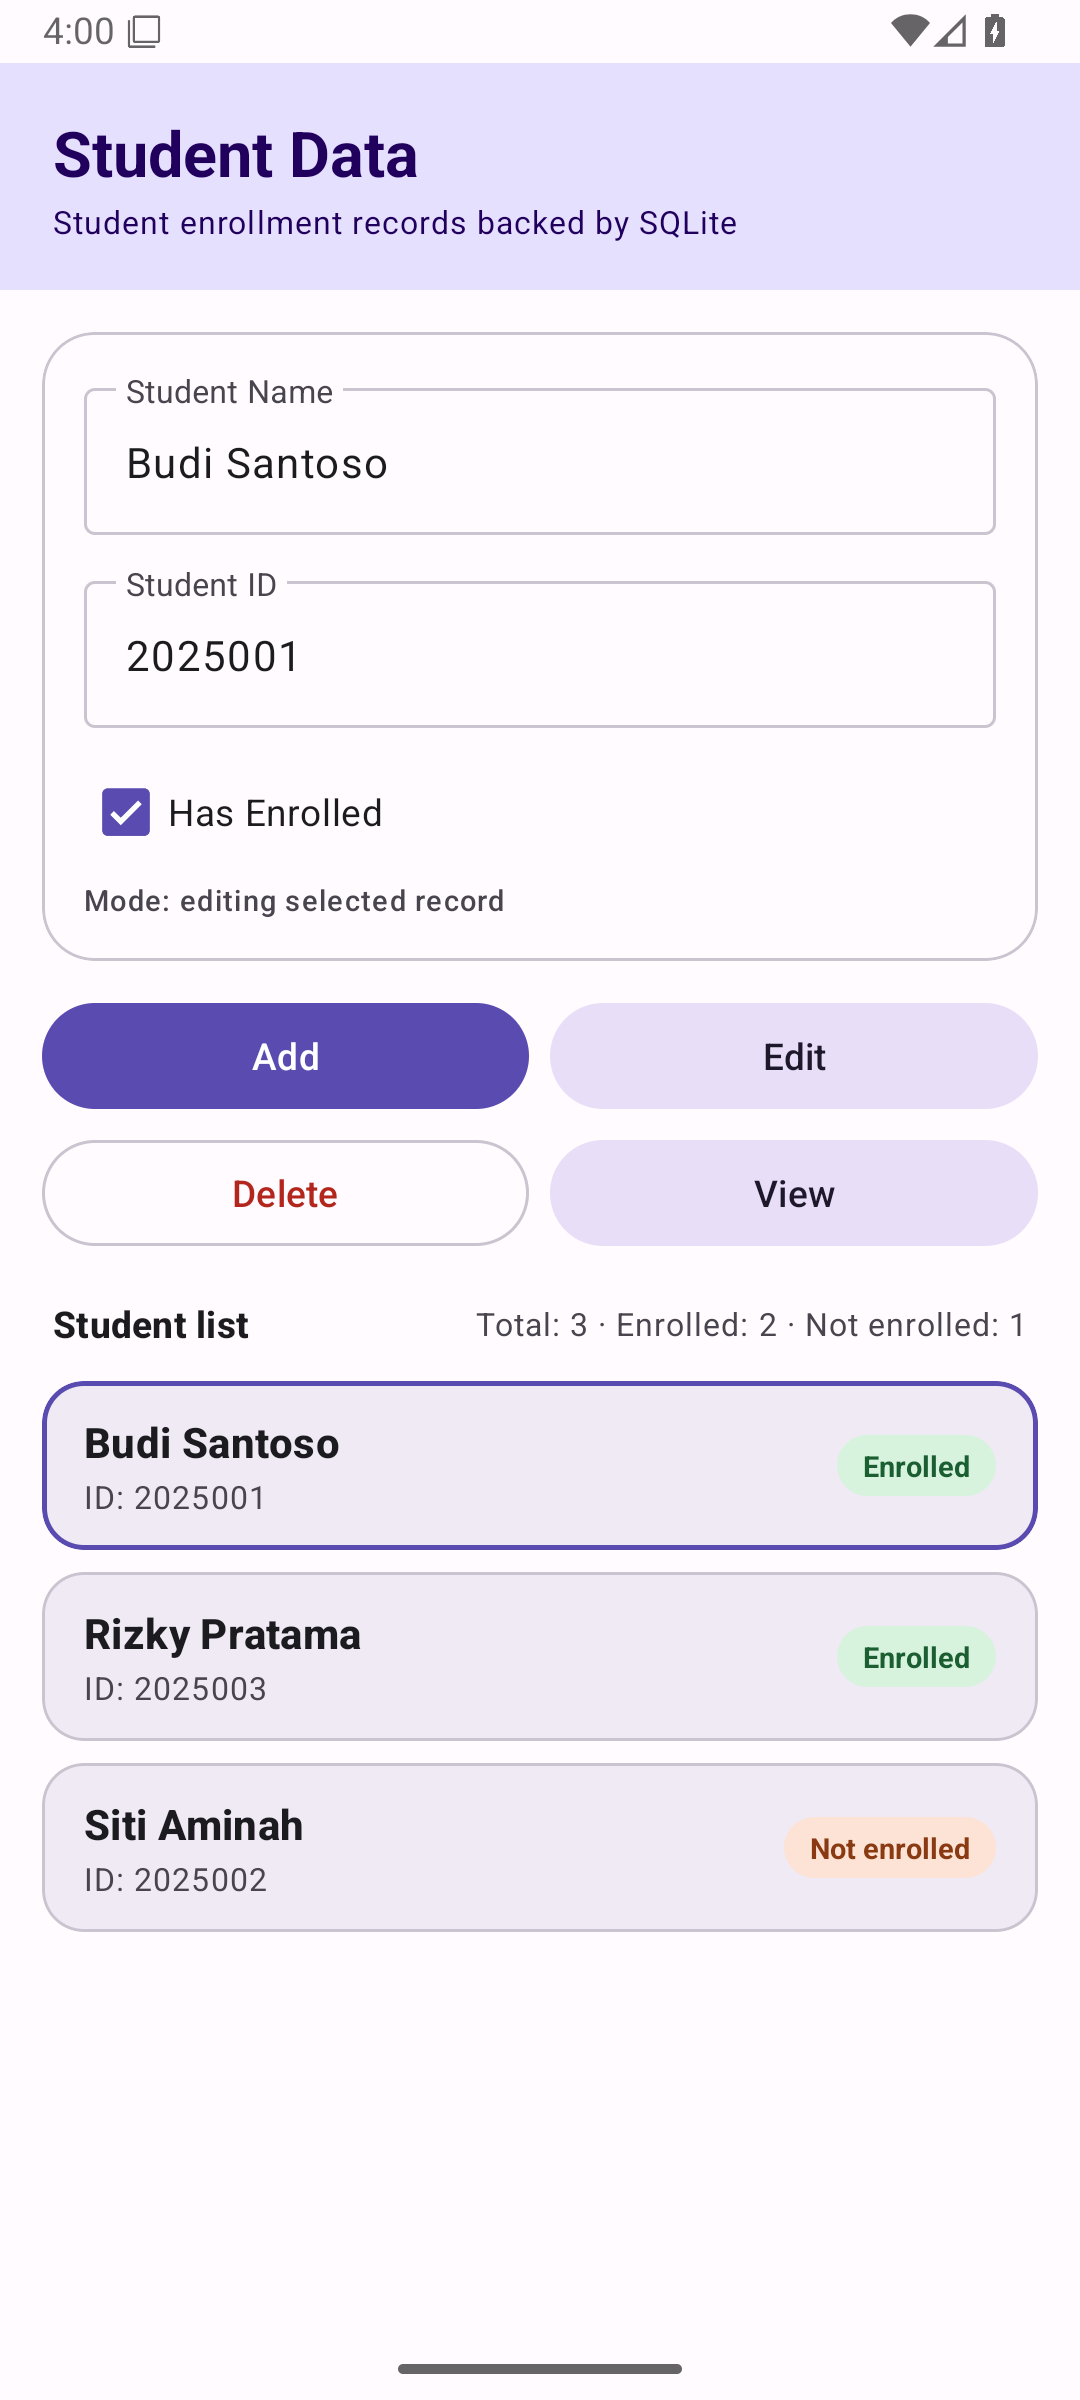
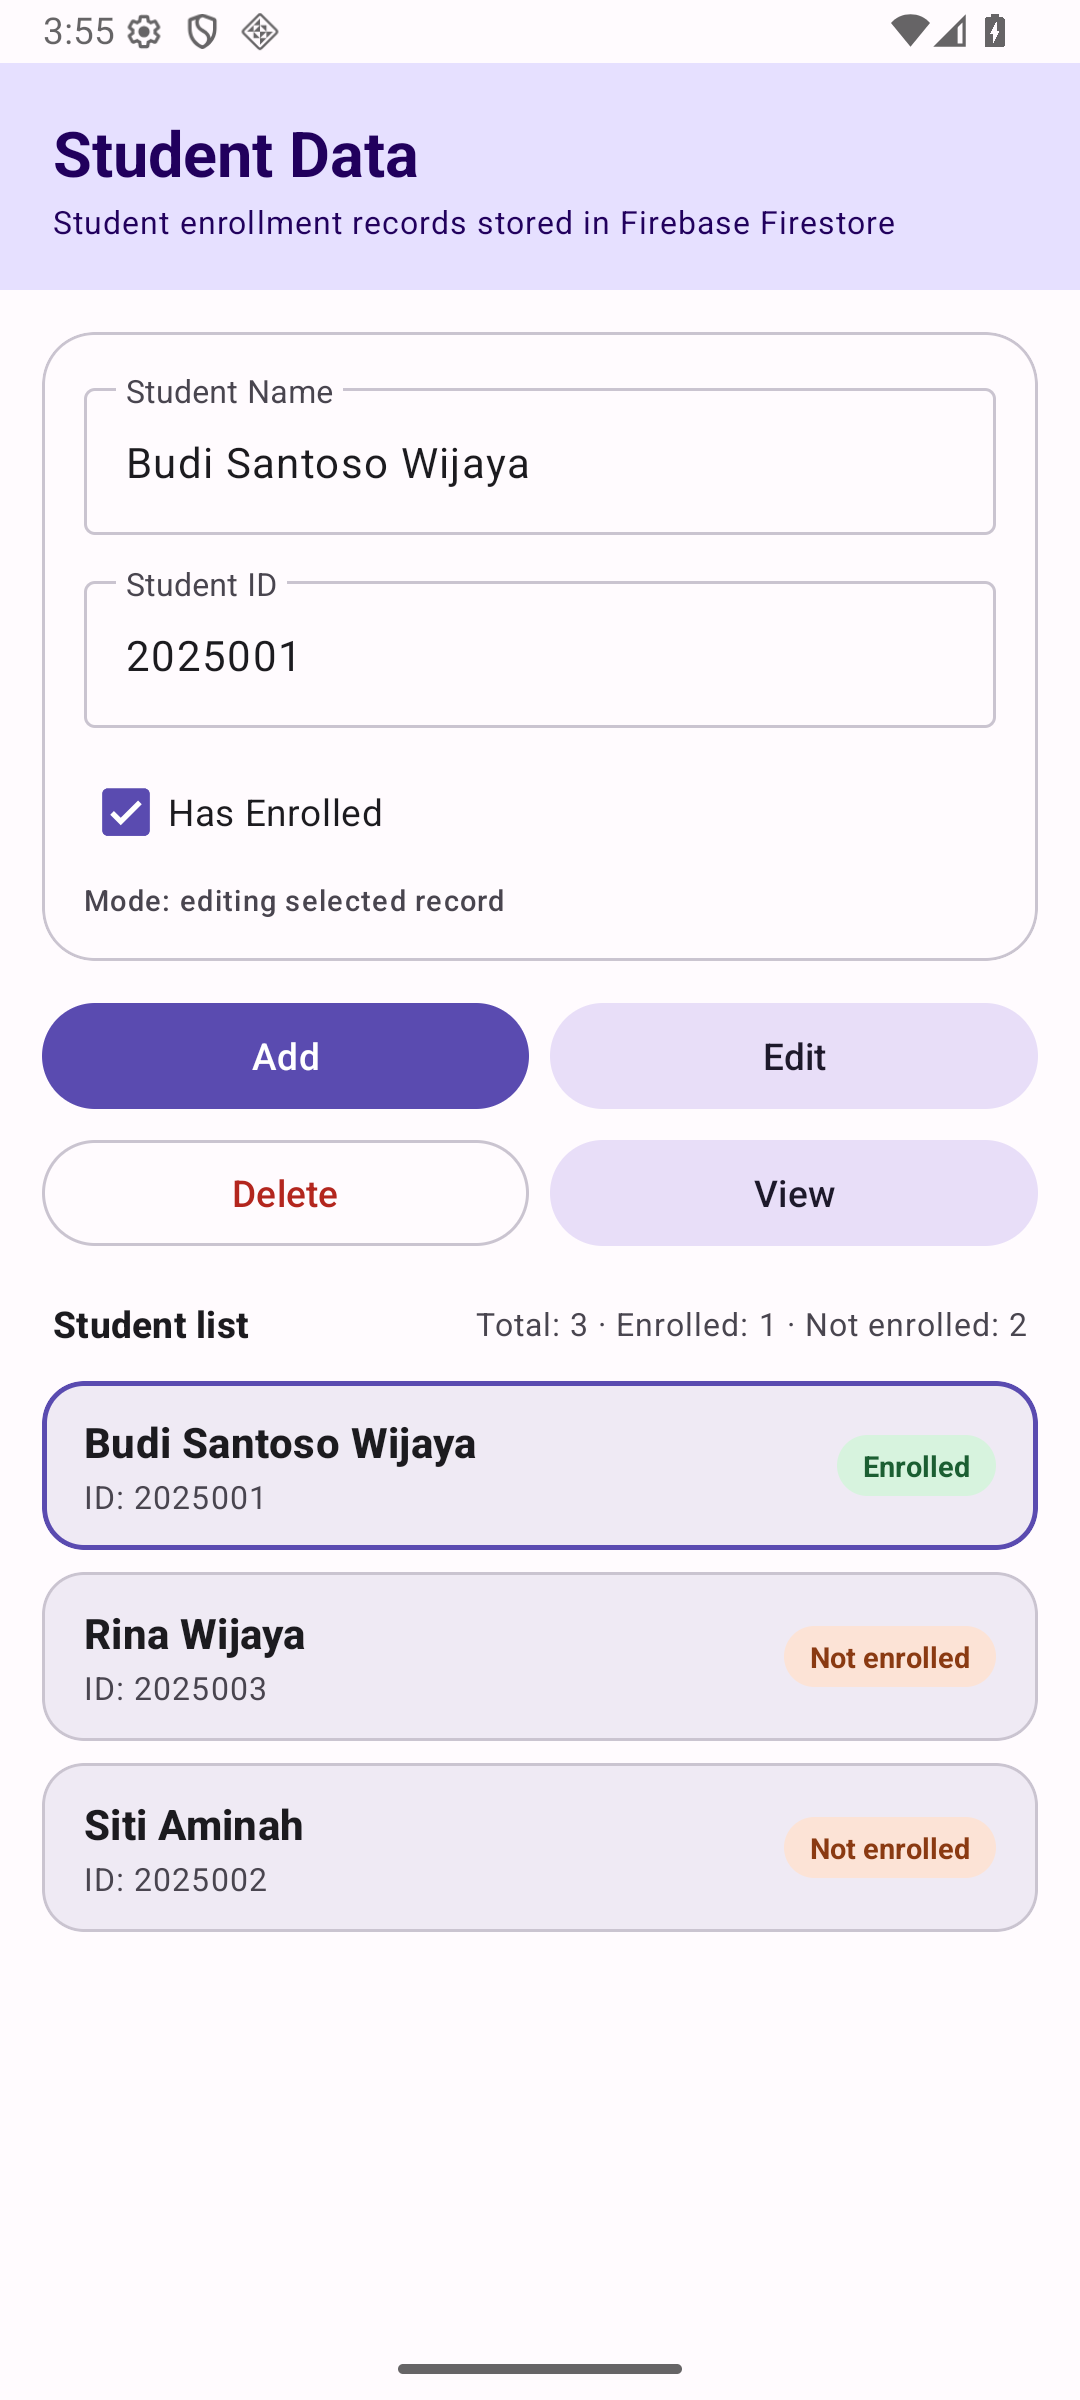
feat: connect app to the Mid Term MAD Firebase project and refresh screenshots

diff --git a/README.md b/README.md
@@ -57,11 +57,11 @@ checked with a query before every add and edit.
 4. **Project settings > Your apps > Android**: register the package name
    `com.example.midtermapp`, then download `google-services.json`.
 5. Put `google-services.json` in the `app/` directory.
-6. Uncomment `alias(libs.plugins.google.services)` in `app/build.gradle.kts`, then sync
-   Gradle.
 
-The Google Services plugin stays disabled in this repository because it fails the build
-when `google-services.json` is missing.
+This repository already contains the file for the `Mid Term MAD` Firebase project, and the
+Google Services plugin is enabled in `app/build.gradle.kts`. To point the app at a
+different Firebase project, replace `app/google-services.json` with the file from that
+project and sync Gradle.
 
 ## Screenshots
 
@@ -71,19 +71,19 @@ when `google-services.json` is missing.
 
 ## Verification
 
-- `./gradlew assembleDebug` and `./gradlew testDebugUnitTest` both pass after the
-  migration to Firestore.
-- Runtime checking on an emulator needs `google-services.json` first: without that file
-  the app cannot open a Firestore connection.
+- `./gradlew assembleDebug` and `./gradlew testDebugUnitTest` both pass with the Google
+  Services plugin enabled.
 
-Checked on an Android 16 (API 36) emulator with the Firebase project attached:
+Checked on an Android 16 (API 36) emulator against the `Mid Term MAD` Firebase project:
 
 - Adding a record writes a document to the `Students` collection, then refreshes the list
   and the summary counters.
 - A duplicate student ID is rejected with the inline error "Student ID is already in use".
 - Selecting a record fills the form; **Edit** updates the selected document.
 - **Delete** shows a confirmation dialog and removes the document.
-- Stored documents are read back from the `Students` collection in the Firebase Console.
+- Records survive an app restart, so they come from Firestore and not from local memory.
+- Stored documents were read back from the `Students` collection through the Firestore
+  REST API: the field names and values match what the form sent.
 
 
 ## How to run
